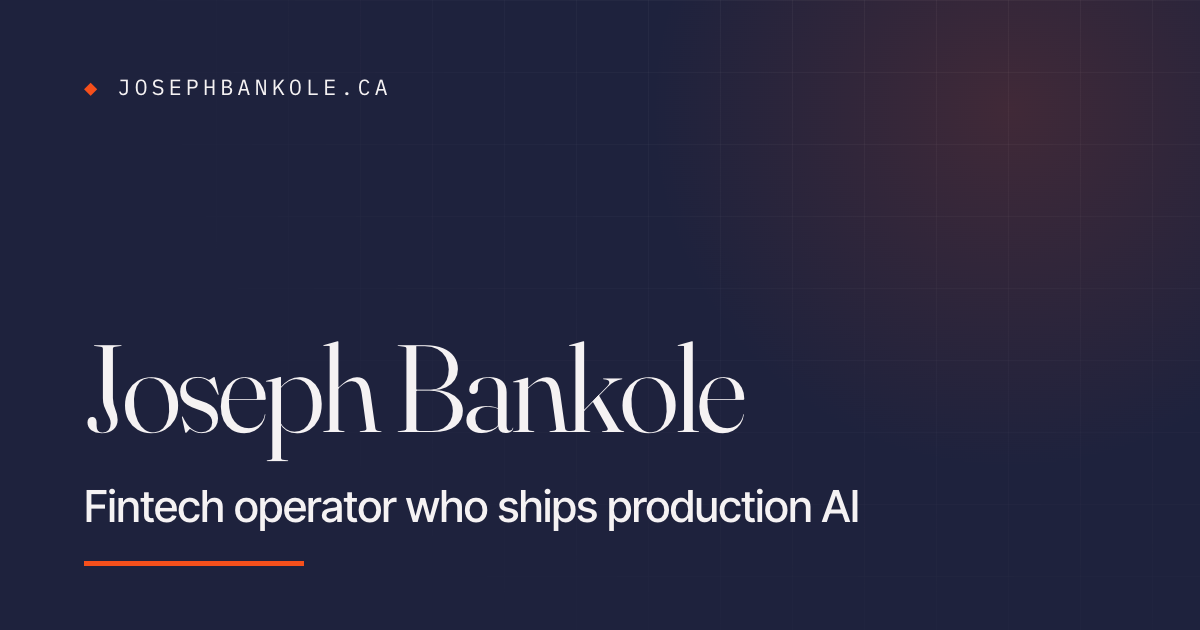
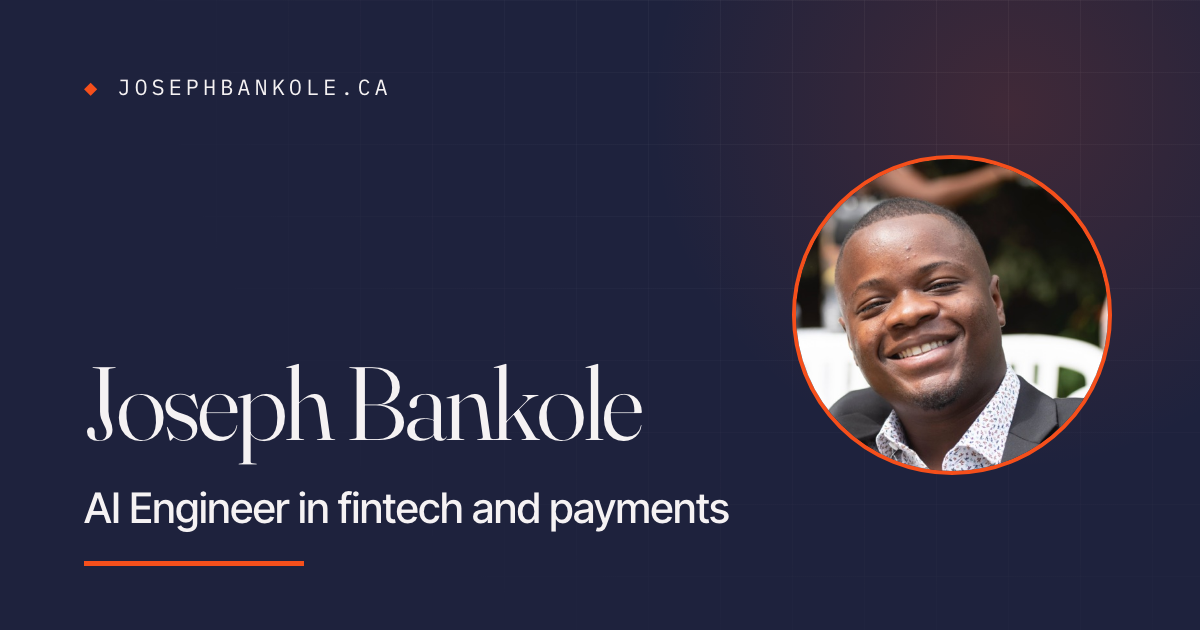
Lead with AI Engineer, headshot, LinkedIn in the hero, JoeySDR removed
Founder, 2026-09-23: "lead with AI Engineer", "we can remove joeySDR", and
"you can add my headshot as well to the website".

Title, share titles and descriptions, JSON-LD description and llms.txt now
lead with AI engineer; share cards re-rendered with the headshot. The
headshot sits in the About section and as the Person image. A LinkedIn
button joins the hero. The Joey project card, its logo, its sameAs entry,
its llms.txt line and its analytics selector are gone.

Changed region(s): [[0.6475, 0.2413, 0.925, 0.754], [0.0617, 0.5429, 0.6167, 0.754], [0.0617, 0.754, 0.74, 0.8444]]

diff --git a/index.html b/index.html
@@ -3,23 +3,23 @@
 <head>
 <meta charset="UTF-8" />
 <meta name="viewport" content="width=device-width, initial-scale=1.0" />
-<title>Joseph Bankole · Fintech operator who ships production AI</title>
-<meta name="description" content="Joseph Bankole spent ten years keeping bank systems running, the last five in payments. Now he builds production AI and writes on agentic commerce." />
+<title>Joseph Bankole · AI Engineer in fintech and payments</title>
+<meta name="description" content="Joseph Bankole is an AI engineer in Montreal. Ten years keeping bank systems running, the last five in payments. Now he builds production AI." />
 <meta name="theme-color" content="#1E223D" />
 <link rel="canonical" href="https://josephbankole.ca/" />
 <meta name="robots" content="index, follow" />
 
 <meta property="og:type" content="website" />
-<meta property="og:title" content="Joseph Bankole · Fintech operator who ships production AI" />
-<meta property="og:description" content="I kept bank systems running for ten years, the last five in payments. Now I build AI that holds up in production and write The ARCHV AI on Substack." />
+<meta property="og:title" content="Joseph Bankole · AI Engineer in fintech and payments" />
+<meta property="og:description" content="AI engineer in Montreal. I kept bank systems running for ten years, the last five in payments. Now I build AI that holds up in production." />
 <meta property="og:url" content="https://josephbankole.ca/" />
 <meta property="og:site_name" content="Joseph Bankole" />
 <meta property="og:image" content="https://josephbankole.ca/assets/og.png" />
 <meta property="og:image:width" content="1200" />
 <meta property="og:image:height" content="630" />
 <meta name="twitter:card" content="summary_large_image" />
-<meta name="twitter:title" content="Joseph Bankole · Fintech operator who ships production AI" />
-<meta name="twitter:description" content="I kept bank systems running for ten years, the last five in payments. Now I build AI that holds up in production and write The ARCHV AI on Substack." />
+<meta name="twitter:title" content="Joseph Bankole · AI Engineer in fintech and payments" />
+<meta name="twitter:description" content="AI engineer in Montreal. I kept bank systems running for ten years, the last five in payments. Now I build AI that holds up in production." />
 <meta name="twitter:image" content="https://josephbankole.ca/assets/og.png" />
 
 <link rel="icon" type="image/png" sizes="96x96" href="/favicon.png" />
@@ -43,8 +43,9 @@
       "@id": "https://josephbankole.ca/#person",
       "name": "Joseph Bankole",
       "url": "https://josephbankole.ca/",
+      "image": "https://josephbankole.ca/assets/headshot.jpg",
       "jobTitle": "AI Engineer",
-      "description": "Fintech operator (SWIFT, ISO 20022, ACH) who builds and ships production AI agents and automations.",
+      "description": "AI engineer with ten years in bank systems, the last five in payments (SWIFT, ISO 20022, ACH). Builds and ships production AI agents and automations.",
       "alumniOf": { "@type": "EducationalOrganization", "name": "McGill University", "url": "https://www.mcgill.ca/" },
       "homeLocation": { "@type": "Place", "name": "Montreal, Canada" },
       "givenName": "Joseph",
@@ -56,7 +57,6 @@
         "https://archvai.substack.com",
         "https://instagram.com/thearchv.ai",
         "https://instagram.com/thearchvfc",
-        "https://joeysdr.com",
         "https://thearchv.ca"
       ],
       "knowsAbout": ["Payment operations", "ISO 20022", "SWIFT", "ACH", "Agentic commerce", "AI agents", "LLMOps", "Forward-deployed engineering"]
@@ -124,6 +124,7 @@
     <div class="hero-cta">
       <a class="btn" data-location="hero" href="https://archvai.substack.com/?utm_source=josephbankole.ca&amp;utm_medium=hero" target="_blank" rel="noopener">Subscribe to The ARCHV AI</a>
       <a class="btn btn--ghost" href="/blog/">Read the blog</a>
+      <a class="btn btn--ghost" href="https://www.linkedin.com/in/joseph-bankole/" target="_blank" rel="noopener">LinkedIn</a>
     </div>
     <div class="credrow">
       <span>ex-HSBC</span><span>ex-Société Générale</span><span>McGill</span><span>Montreal</span>
@@ -136,6 +137,7 @@
 <section id="about">
   <div class="wrap">
     <div class="sec-head reveal">
+      <img class="portrait" src="/assets/headshot.jpg" alt="Joseph Bankole" width="480" height="480" loading="lazy" decoding="async" />
       <span class="index">01 / About</span>
       <h2>I got into payments by accident.</h2>
     </div>
@@ -240,22 +242,10 @@
     <div class="sec-head reveal">
       <span class="index">03 / Projects</span>
       <h2>Things I have <em>shipped</em>.</h2>
-      <p>Three live products, all built and run end to end. One is an AI SDR that works the leads a business already paid for, one tells football's story with an iOS app live on the App Store, and one tracks the week in AI.</p>
+      <p>Two live products, both built and run end to end. One tells football's story with an iOS app live on the App Store, and one explains AI news in plain English.</p>
     </div>
 
     <div class="reveal stagger">
-      <div class="project">
-        <div class="logo-circle"><img src="/assets/joeysdr-logo.svg" alt="JoeySDR logo" loading="lazy" width="96" height="96" /></div>
-        <div>
-          <h3>Joey</h3>
-          <span class="role">AI SDR &middot; Lead follow-up</span>
-          <p>An AI sales rep that works the leads a business already paid for. It answers every new lead in seconds, re-engages the no-shows everyone ignores, qualifies against the founder's own rubric, and books the ready ones straight onto the calendar, all in the founder's voice. Not a cold-email robot. It works the people who already raised a hand. Built into the funnel and run for you, on a fixed pilot priced on booked calls, not messages blasted.</p>
-          <div class="links">
-            <a href="https://joeysdr.com" target="_blank" rel="noopener">joeysdr.com &rarr;</a>
-          </div>
-        </div>
-      </div>
-
       <div class="project">
         <div class="logo-circle"><img src="/assets/thearchv-logo.png" alt="The ARCHV crest logo" loading="lazy" width="96" height="96" /></div>
         <div>

diff --git a/assets/style.css b/assets/style.css
@@ -256,6 +256,8 @@ img { max-width: 100%; display: block; }
    gave each of them 82px of padding and a stray top border. */
 main > section { padding: clamp(56px, 8vw, 110px) 0; border-top: 1px solid var(--ink-rule); }
 .sec-head { max-width: var(--measure-wide); margin-bottom: 44px; }
+.sec-head .portrait { display: block; width: 128px; height: 128px; border-radius: 50%; object-fit: cover; margin-bottom: 22px; border: 2px solid var(--accent-soft); background: var(--ground-soft); }
+@media (min-width: 760px) { .sec-head .portrait { width: 152px; height: 152px; } }
 h2 {
   font-family: var(--serif); font-weight: 340;
   font-size: var(--t-h2); line-height: 1.1; letter-spacing: -.02em;

diff --git a/404.html b/404.html
@@ -4,7 +4,7 @@
 <meta charset="UTF-8" />
 <meta name="viewport" content="width=device-width, initial-scale=1.0" />
 <title>Not found · Joseph Bankole</title>
-<meta name="description" content="Page not found on Joseph Bankole's site, which covers fintech operations and shipped AI systems. The link is broken or moved; head back to the homepage." />
+<meta name="description" content="Page not found on Joseph Bankole's site about production AI and payments. The link is broken or moved; head back to the homepage." />
 <meta name="theme-color" content="#1E223D" />
 <meta name="robots" content="noindex" />
 <link rel="canonical" href="https://josephbankole.ca/404.html" />

diff --git a/assets/analytics.js b/assets/analytics.js
@@ -66,7 +66,7 @@
   /* Any other Substack newsletter link (the ARCHV Dispatch). Kept so a
      Dispatch link, if one is ever placed, is not lost in outbound_click. */
   function isNewsletter(a) { return !isSubscribe(a) && host(a) === 'thearchvdispatch.substack.com'; }
-  var PROJECT = 'a[href*="joeysdr.com"], a[href*="thearchv.ca"]';
+  var PROJECT = 'a[href*="thearchv.ca"]';
   var FOUNDER = 'a[href*="linkedin.com"], a[href*="instagram.com"]';
 
   document.querySelectorAll('a[href]').forEach(function (a) {

diff --git a/lab/index.html b/lab/index.html
@@ -255,7 +255,7 @@
     <div class="wrap foot">
       <div class="fcol">
         <span class="fbrand"><span class="gold">&#9670;</span> JOSEPH BANKOLE</span>
-        <span class="copy">Fintech operations &middot; Applied AI &middot; Montreal</span>
+        <span class="copy">AI engineer &middot; Montreal</span>
       </div>
       <div class="fcol fcol-r">
         <a href="https://www.linkedin.com/in/joseph-bankole/" target="_blank" rel="noopener">LinkedIn</a>
